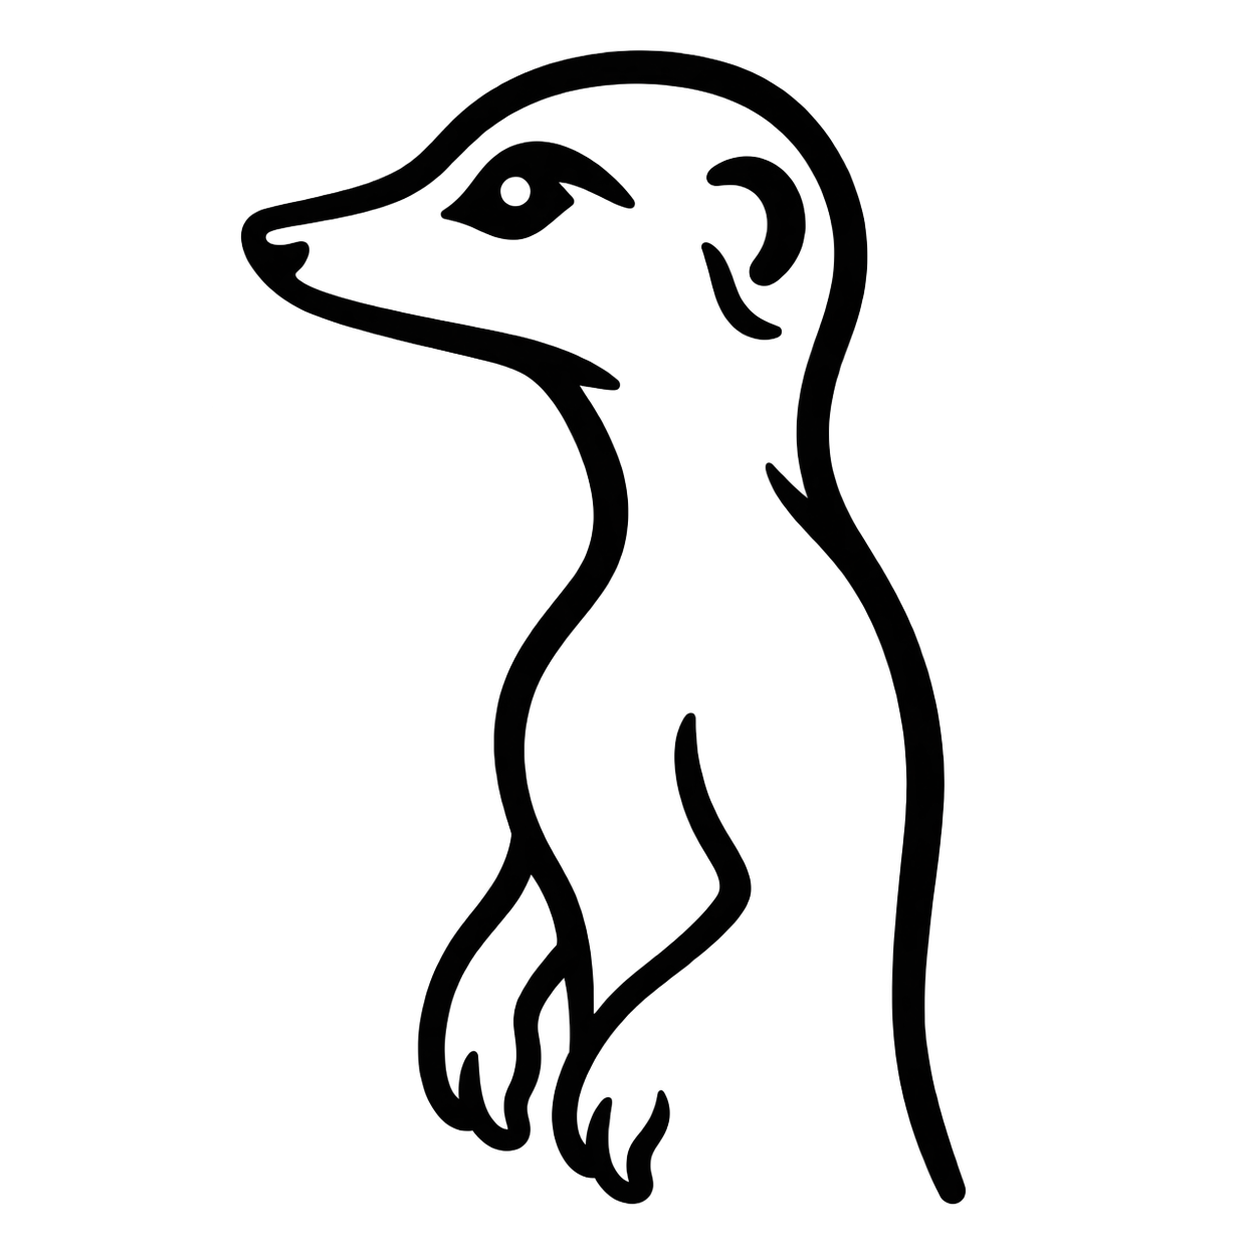
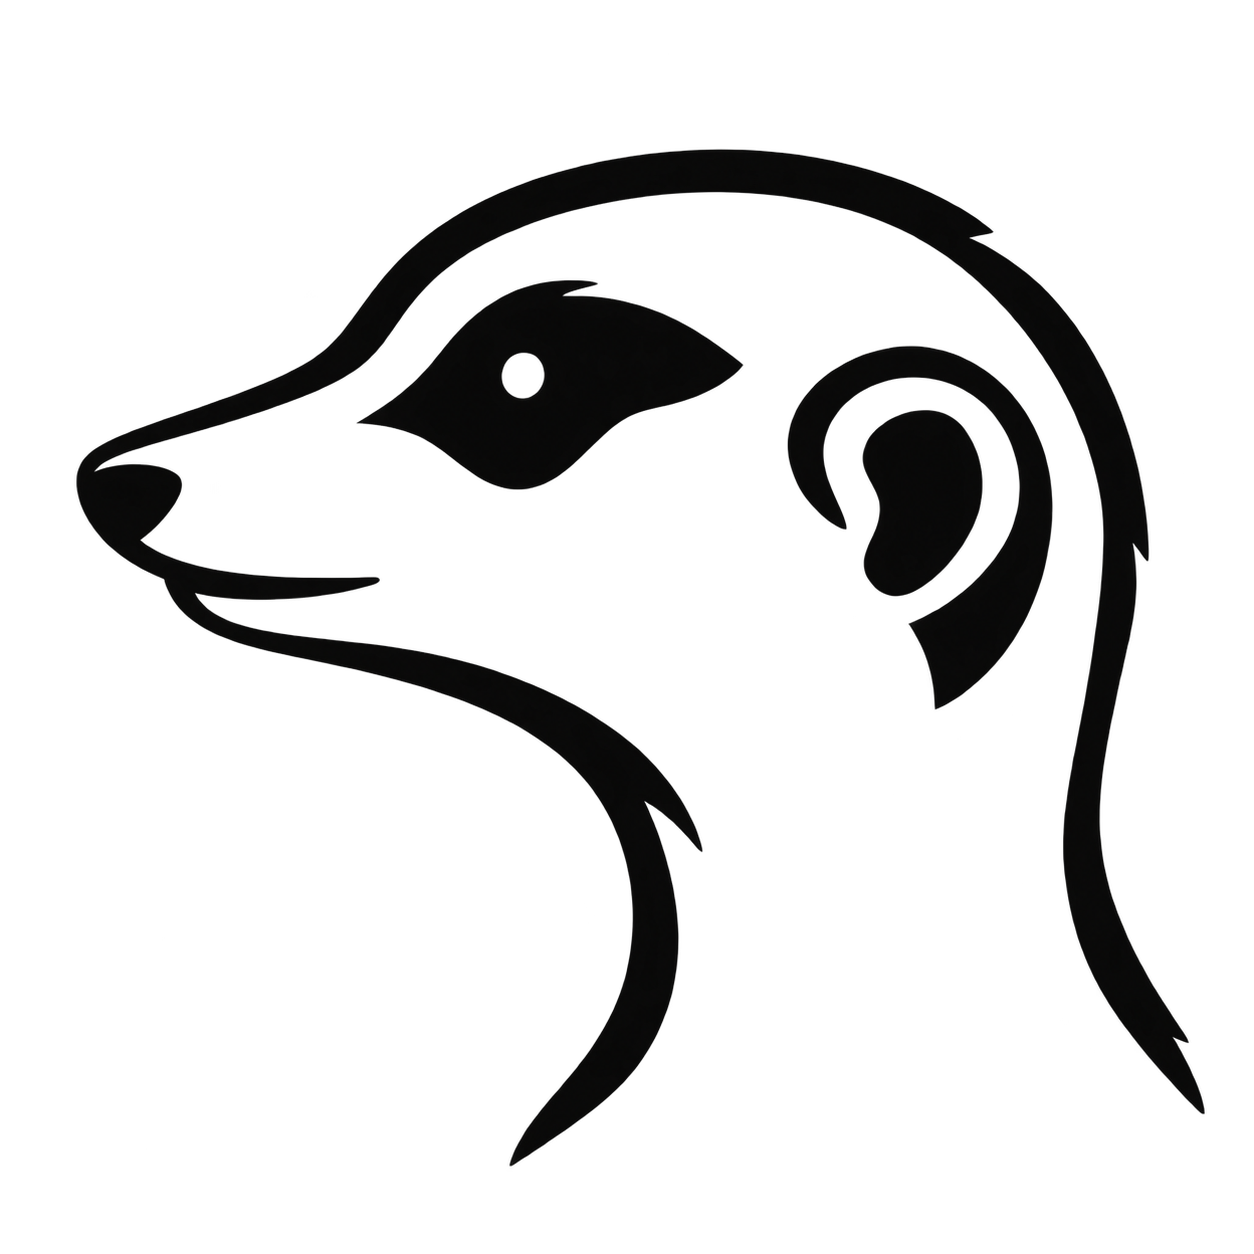
Enlarge recognizable meerkat head in sidebar

Changed region(s): [[0.0622, 0.0311, 0.9641, 0.9641]]

diff --git a/desktop/shell.js b/desktop/shell.js
@@ -55,7 +55,7 @@
         if (!done && t.nodeValue.trim()) { t.nodeValue = 'Meerkat'; done = true; } else if (t.nodeValue.trim()) t.nodeValue = '';
       }
       if (!done) node.textContent = 'Meerkat';
-      const icon = lineIcon(18);
+      const icon = lineIcon(26);
       if (iconParent) iconParent.prepend(icon);
       else node.prepend(icon);
     };

diff --git a/README.md b/README.md
@@ -3,7 +3,7 @@
 ![Meerkat icon](./assets/meerkat.png)
 
 The high-resolution artwork is `assets/meerkat-artwork.png`; `assets/meerkat.png` is the 512px plugin export.
-The Codex sidebar uses a separate, transparent line icon (`assets/meerkat-sidebar.png`) so it stays legible at 18px and follows the UI text color. Its high-resolution source is `assets/meerkat-sidebar-artwork.png`.
+The Codex sidebar uses a separate, transparent head-and-neck icon (`assets/meerkat-sidebar.png`) sized like the native navigation icons and colored with the UI text. Its high-resolution source is `assets/meerkat-sidebar-artwork.png`.
 
 Meerkat shows which coding agents are running and what they are doing. Its first developer runtime is Pi: the runner handles one Pi CLI coding task in a clean linked Git worktree, enforces wall-time/token caps, and writes a small private run summary. Codex reviews the resulting commit. No dependencies; needs Node 22+ and the `pi` CLI.
 
